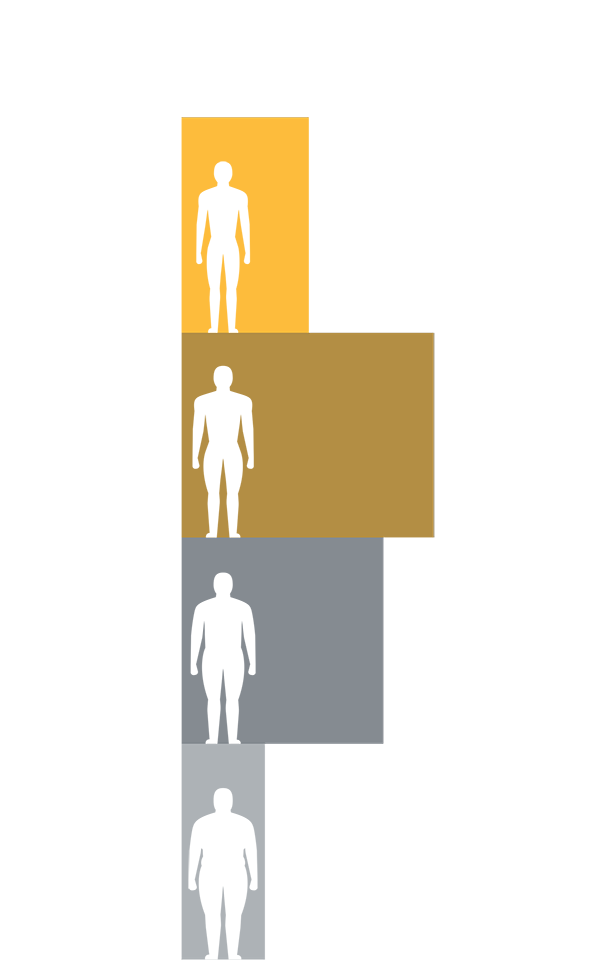
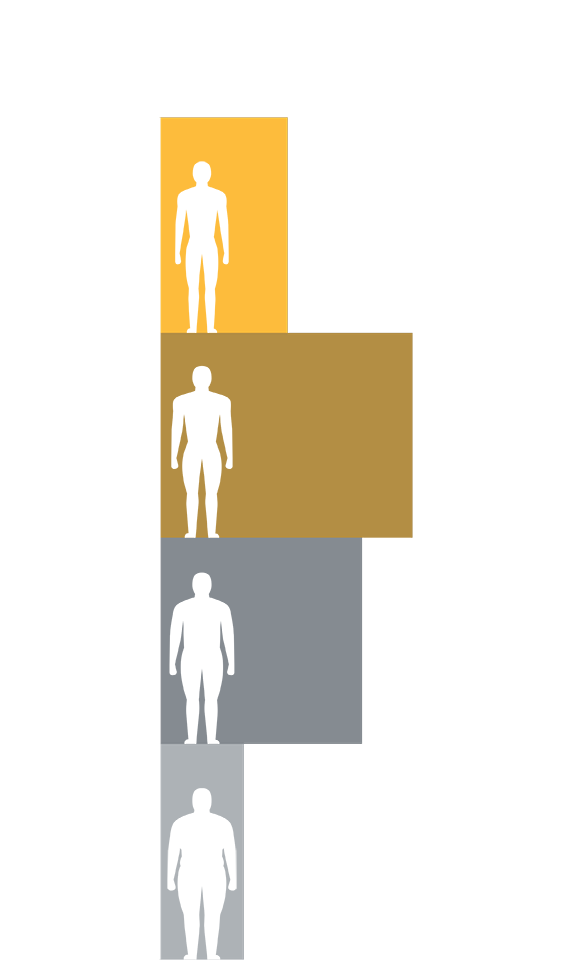
fixed the mobile graphic

diff --git a/frontend/src/styles/pages/_recognizing-bed.scss b/frontend/src/styles/pages/_recognizing-bed.scss
@@ -194,8 +194,8 @@ body.recognizing-bed {
 
                 @include mq("sm") {
                     top: 13px;
-                    background-size: 307px 480px !important;
-                    width: 307px !important;
+                    background-size: 291px 480px !important;
+                    width: 291px !important;
                     height: 480px !important;
                 }
             }
@@ -209,7 +209,7 @@ body.recognizing-bed {
                 // height: 310px;
             }
             @include mq("sm") {
-                width: 267px;
+                width: 280px;
                 height: 482px;
                 margin-bottom: 20px;
             }
